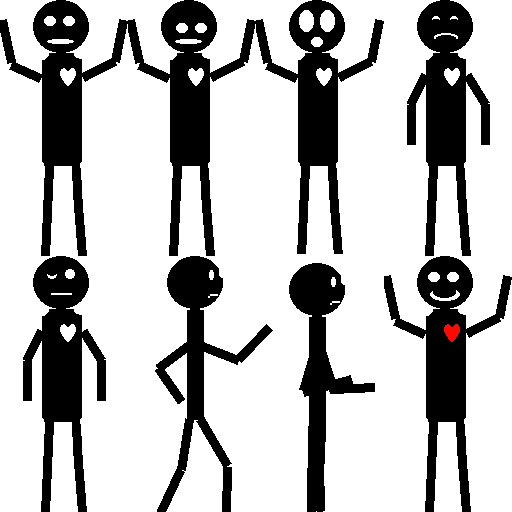
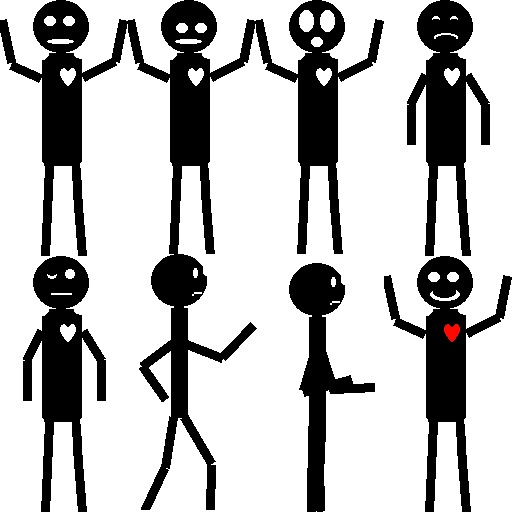
Adds running animation
* Player will display the running animation when moving left or right

Changed region(s): [[0.2812, 0.5, 0.5312, 1.0]]

diff --git a/src/com/prototype3/gameobjects/Player.java b/src/com/prototype3/gameobjects/Player.java
@@ -9,6 +9,7 @@ public class Player extends PhysicsObject {
 	private static final float PLAYER_MAX_SPEED = 15f;
 	private SpriteSheet playerSprites;
 	private Animation idleAnimation;
+	private Animation walkAnimation;
 	private Image playerImage;
 	private int idleTime;
 	private boolean playIdleAnimation;
@@ -23,11 +24,16 @@ public class Player extends PhysicsObject {
 
 		Image[] idleImages = new Image[] { this.playerSprites.getSubImage(0, 0), this.playerSprites.getSubImage(1, 0),
 				this.playerSprites.getSubImage(2, 0), this.playerSprites.getSubImage(3, 0), };
+		Image[] walkImages = new Image[] { this.playerSprites.getSubImage(1, 1), this.playerSprites.getSubImage(2, 1) };
 
 		int[] idleImageDurations = new int[] { 750, 1000, 2000, 3000, };
+		int[] walkAnimationDurations = new int[] { 60, 60 };
 
 		this.idleAnimation = new Animation(idleImages, idleImageDurations, false);
 		this.idleAnimation.setLooping(false);
+
+		this.walkAnimation = new Animation(walkImages, walkAnimationDurations, false);
+		this.walkAnimation.setLooping(true);
 	}
 
 	@Override
@@ -73,6 +79,10 @@ public class Player extends PhysicsObject {
 		} else
 			this.idleTime = 0;
 
+		if (this.onGround && (Game.isRightKeyDown || Game.isLeftKeyDown)) {
+			this.walkAnimation.update(delta);
+		}
+
 		if (this.playIdleAnimation) {
 			this.idleAnimation.update(delta);
 			if (this.idleAnimation.isStopped())
@@ -92,6 +102,11 @@ public class Player extends PhysicsObject {
 
 		if (this.playIdleAnimation)
 			this.idleAnimation.draw(this.x, this.y, this.width, this.height);
+		else if (this.speedX * this.speedX > 0)
+			if (this.speedX > 0)
+				this.walkAnimation.draw(this.x, this.y, this.width, this.height);
+			else
+				this.walkAnimation.draw(this.x + this.width, this.y, -this.width, this.height);
 		else
 			this.playerImage.draw(this.x, this.y, this.width, this.height);
 	}

diff --git a/src/com/prototype3/main/LevelChunk.java b/src/com/prototype3/main/LevelChunk.java
@@ -111,8 +111,13 @@ public class LevelChunk extends PhysicsObject {
 					break;
 
 				Tile tile = this.tiles[i][j];
-				if (tile != null)
+				if (tile != null) {
+					// Lazy crash fix
+					if (tilesIndex >= tiles.length)	
+						return tiles;
+					
 					tiles[tilesIndex++] = tile;
+				}
 			}
 		}
 

diff --git a/src/com/prototype3/main/Game.java b/src/com/prototype3/main/Game.java
@@ -43,7 +43,7 @@ public class Game extends BasicGame {
 			e.printStackTrace();
 		}
 
-		this.player = new Player(this.level.playerSpawnX, this.level.playerSpawnY, 75, 145);
+		this.player = new Player(this.level.playerSpawnX, this.level.playerSpawnY, 74, 149);
 	}
 
 	@Override
